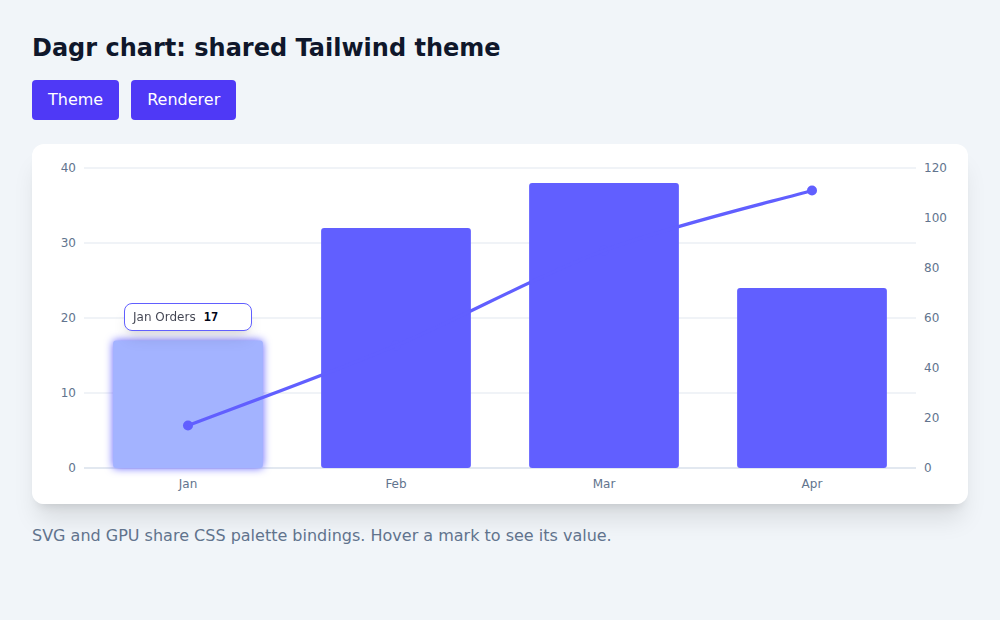
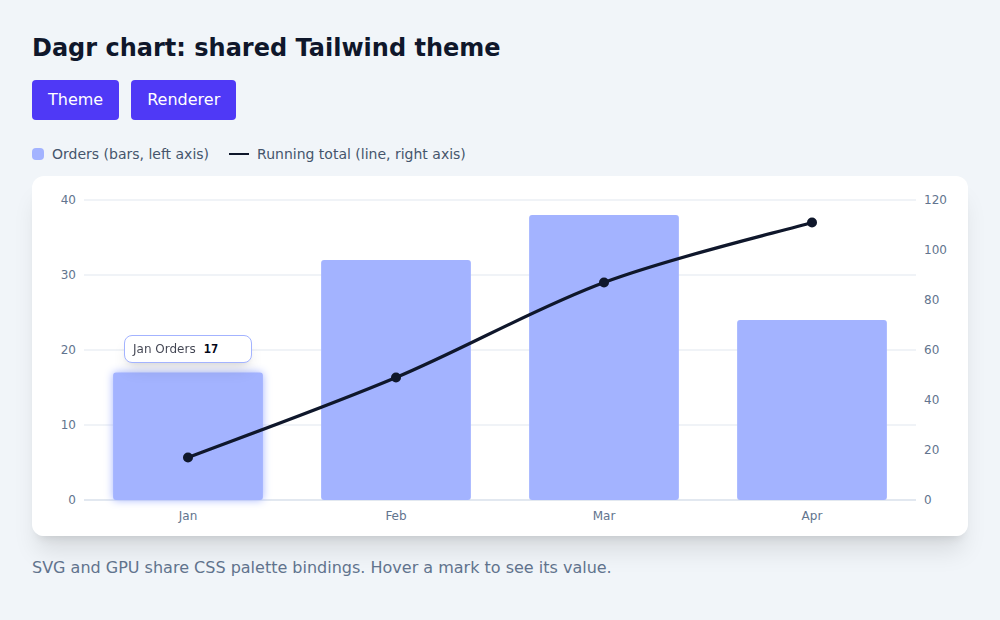
fix(chart): keep lines visible across bars (#222)
Let chart line ribbons opt into drawing above bars while preserving default graph edge layering. Improve combination-chart palettes and legends in existing examples.

Final local five-command gate, exact-head CI, independent DIFF and MERGED TREE reviews passed. Desktop/mobile SVG and software WebGL2 browser flows passed; hardware WebGPU remains unverified.

diff --git a/packages/render/src/scene-edges.ts b/packages/render/src/scene-edges.ts
@@ -31,8 +31,9 @@ import { requireAtLeast, requireFinite } from './validate.js';
  * order within a mesh is SLOT order and that a slot is not durable across a
  * removal, so two ribbons in one draw call cannot be reliably ordered against
  * each other. Groups are drawn in the order they were declared, and that is the
- * only ordering this package offers: dashed routed edges under solid overlay
- * lines is two groups, not two z values.
+ * ordering within a layer: dashed routed edges under solid overlay lines is
+ * two groups. A group can also opt into drawing above nodes, for chart lines
+ * that cross filled bars. Ordinary graph edges stay below nodes.
  *
  * ## Geometry and style are separate calls, and that is the whole ergonomics
  *
@@ -79,6 +80,13 @@ export interface SceneEdge {
 export interface SceneEdgeGroup {
   /** The name `Renderer.setEdges` and `Renderer.setEdgeStyle` address it by. */
   readonly id: string;
+
+  /**
+   * Where this group's ribbons sit relative to nodes. Default `'below-nodes'`.
+   * Use `'above-nodes'` for chart lines that must remain visible over bars.
+   * Groups within each layer keep declaration order.
+   */
+  readonly layer?: 'below-nodes' | 'above-nodes' | undefined;
 
   /**
    * The width and dash pattern this group starts at. See {@link RibbonStyle}.
@@ -247,7 +255,7 @@ function createRibbonMaterial(style: RibbonStyle): {
   // gave: alpha for the antialiasing ramps, and no depth write because a
   // transparent fragment that writes depth occludes whatever is drawn behind it
   // afterwards. Ribbons and nodes share the z = 0 plane, so the ribbons' place
-  // under the nodes comes from the order the meshes are added to the scene.
+  // relative to nodes comes from their render order and scene insertion order.
   material.transparent = true;
   material.depthWrite = false;
   return { material, uniforms };
@@ -283,6 +291,9 @@ class EdgeGroup implements GpuResource {
   #dirtyMax = Number.NEGATIVE_INFINITY;
 
   constructor(group: SceneEdgeGroup) {
+    if (group.layer !== undefined && group.layer !== 'below-nodes' && group.layer !== 'above-nodes') {
+      throw new RangeError(`group "${group.id}".layer has to be below-nodes or above-nodes`);
+    }
     requireRibbonStyle(group.style, `group "${group.id}".style`);
     const { material, uniforms } = createRibbonMaterial(group.style);
     this.id = group.id;
@@ -293,6 +304,10 @@ class EdgeGroup implements GpuResource {
     // keeps it when the geometry is swapped: drawn once without them, the group
     // never uploads them and draws nothing whatever edges it is given later.
     this.mesh = new Mesh(new BufferGeometry(), material);
+    // Nodes keep three's default renderOrder of 0. Both kinds of mesh are
+    // transparent and do not write depth, so an overlay can draw last without
+    // changing the z plane or the order of ordinary graph edges.
+    this.mesh.renderOrder = group.layer === 'above-nodes' ? 1 : 0;
     this.setEdges([]);
     // The bounding sphere three would compute is of the CENTRELINE, and a
     // ribbon is drawn up to its half width outside that, in pixels, which no

diff --git a/apps/demo/src/chart/ChartStage.tsx b/apps/demo/src/chart/ChartStage.tsx
@@ -8,8 +8,9 @@ import type { ChartData } from './data.js';
 
 /**
  * `<DagrChart>` with something to change: the kind of mark, the data, and a
- * second axis. Each control only builds a new `series` prop, and the chart
- * works out what glides, what grows in and what shrinks out.
+ * second axis. Data controls build a new `series` prop; the chart works out
+ * what glides, what grows in and what shrinks out. The rendering control
+ * selects GPU or SVG.
  */
 
 type Mode = 'bars' | 'lines' | 'both' | 'total';
@@ -23,6 +24,9 @@ const MODES: readonly { readonly id: Mode; readonly label: string }[] = [
 const AUTOPLAY_MS = 2400;
 const FIRST_SEED = 7;
 const TOTAL_COLOR = 0xe6edf3;
+// In an overlay, bars provide context and brighter lines remain traceable
+// across both bar colours. Keep the same hue families for each dataset.
+const OVERLAY_BAR_COLORS = [0x705526, 0x26595d] as const;
 
 function runningTotal(values: readonly number[]): number[] {
   let sum = 0;
@@ -33,7 +37,7 @@ function seriesFor(data: ChartData, mode: Mode): ChartSeries[] {
   const [first] = data.series;
   if (mode === 'total' && first !== undefined) {
     return [
-      first,
+      { ...first, color: OVERLAY_BAR_COLORS[0] },
       {
         id: 'total',
         label: `${first.label}, running total`,
@@ -46,7 +50,13 @@ function seriesFor(data: ChartData, mode: Mode): ChartSeries[] {
   }
   if (mode === 'bars') return [...data.series];
   const lines = data.series.map((series) => ({ ...series, id: `${series.id}:line`, mark: 'line' as const }));
-  return mode === 'lines' ? lines : [...data.series, ...lines];
+  if (mode === 'lines') return lines;
+  return [
+    ...data.series.map((series, index) => ({ ...series,
+      label: `${series.label} (bars)`, color: OVERLAY_BAR_COLORS[index] ?? series.color,
+    })),
+    ...lines.map((series) => ({ ...series, label: `${series.label} (line)` })),
+  ];
 }
 
 function hex(color: number): string {
@@ -83,7 +93,7 @@ export function ChartStage(): JSX.Element {
 
   const data = useMemo(() => generateData(seed), [seed]);
   const series = useMemo(() => seriesFor(data, mode), [data, mode]);
-  const legend = series.filter((entry) => !entry.id.endsWith(':line') || mode === 'lines');
+  const legend = series;
 
   // Reduced motion pauses the play button as well as the timer.
   const autoplaying = playing && !reduced;
@@ -149,8 +159,10 @@ export function ChartStage(): JSX.Element {
         <ul className="chart__legend" aria-label="Series">
           {legend.map((entry) => (
             <li key={entry.id} className="chart__legend-item">
-              <span className="chart__swatch" style={{ background: hex(entry.color) }} />
-              {entry.label}
+              <span aria-hidden="true"
+                className={entry.mark === 'line' ? 'chart__swatch chart__swatch--line' : 'chart__swatch'}
+                style={{ color: hex(entry.color) }} />
+              {entry.label}{entry.axis === 'right' ? ' (right axis)' : ''}
             </li>
           ))}
         </ul>

diff --git a/packages/render/test/scene-edges.test.ts b/packages/render/test/scene-edges.test.ts
@@ -19,9 +19,9 @@ import type { Vec2 } from '../src/types.js';
  * The two properties this file exists for, both of which are about the shape of
  * the seam rather than about the picture:
  *
- * - **A group is a mesh**, in declaration order, because that order is the only
- *   layering this package offers (M4.3: slot order within one mesh is not
- *   durable).
+ * - **A group is a mesh**, in declaration order within its layer (M4.3:
+ *   slot order within one mesh is not durable). Groups default below nodes
+ *   and overlays can opt above them.
  * - **Style is not geometry.** `setStyle` writes uniforms and touches no
  *   buffer, which is what lets a draw loop clamp the width against the zoom
  *   every frame without re-tessellating anything.
@@ -103,6 +103,26 @@ describe('SceneEdges', () => {
     expect(scene.meshes).toHaveLength(2);
     expect(scene.meshes[0]).not.toBe(scene.meshes[1]);
     scene.dispose();
+  });
+
+  it('keeps graph edges below nodes and lets an overlay stay above them after geometry updates', () => {
+    const scene = new SceneEdges([
+      { id: 'graph', style: { halfWidthPixels: 1 } },
+      { id: 'under', layer: 'below-nodes', style: { halfWidthPixels: 1 } },
+      { id: 'chart', layer: 'above-nodes', style: { halfWidthPixels: 1 } },
+    ]);
+    expect(scene.meshes.map((mesh) => mesh.renderOrder)).toEqual([0, 0, 1]);
+    scene.setEdges('chart', [edge('line', straight)]);
+    expect(scene.meshes[2]?.renderOrder).toBe(1);
+    expect(scene.meshes.every((mesh) => mesh.material.transparent && !mesh.material.depthWrite)).toBe(true);
+    scene.dispose();
+  });
+
+  it('rejects an invalid layer before allocating its mesh', () => {
+    expect(() => new SceneEdges([
+      // @ts-expect-error JavaScript callers can pass an invalid layer.
+      { id: 'bad', layer: 'middle', style: { halfWidthPixels: 1 } },
+    ])).toThrow(/layer has to be below-nodes or above-nodes/);
   });
 
   it('draws nothing until it is given edges', () => {

diff --git a/packages/render/src/webgpu-renderer.ts b/packages/render/src/webgpu-renderer.ts
@@ -680,10 +680,11 @@ export function buildSceneRenderer(
     // meshes to add and the resource to give back: an `InstancedShapes` replaces
     // its own geometry when its buffer grows, so a geometry captured here would
     // be the stale one by the time anything disposed it.
-    // EDGES FIRST, and the order is the whole of the layering: three draws a
+    // EDGES FIRST for the default layer: three draws a
     // scene's children in the order they were added for objects that share a
     // depth, and every mesh in this package is transparent with `depthWrite`
-    // off, so ribbons added before nodes are drawn under them.
+    // off, so default ribbons draw under nodes. An above-nodes group has a
+    // higher renderOrder and draws after them instead.
     sceneEdges = new SceneEdges(edgeGroups ?? []);
     for (const mesh of sceneEdges.meshes) {
       scene.add(mesh);

diff --git a/packages/chart/src/scene.ts b/packages/chart/src/scene.ts
@@ -137,7 +137,7 @@ export async function createChartScene(options: ChartSceneOptions): Promise<Char
     canvas: options.canvas!,
     clearColor: theme.background,
     sceneStyle: { outlineColor: theme.background, glowAlpha: 0.55, outlinePixels: 1 },
-    edgeGroups: [{ id: LINE_GROUP, style: { halfWidthPixels: LINE_HALF_WIDTH_PIXELS }, curve: 'polyline' }],
+    edgeGroups: [{ id: LINE_GROUP, layer: 'above-nodes', style: { halfWidthPixels: LINE_HALF_WIDTH_PIXELS }, curve: 'polyline' }],
     ...(options.signal === undefined ? {} : { signal: options.signal }),
     ...(options.backend === undefined ? {} : { backend: options.backend }),
     ...(options.onContextLost === undefined ? {} : { onContextLost: options.onContextLost }),

diff --git a/packages/render/src/types.ts b/packages/render/src/types.ts
@@ -150,8 +150,9 @@ export interface Renderer {
    *
    * Groups are declared at construction, through
    * {@link RendererOptions.edgeGroups}, and drawn in the order they were
-   * declared: that order is the only layering this package offers, because
-   * M4.3 established that blend order WITHIN a mesh is slot order and a slot is
+   * declared within each layer. Groups default below nodes and can opt above
+   * them with `layer: 'above-nodes'`. Within a group,
+   * blend order is slot order and a slot is
    * not durable across a removal. Dashed routed edges under solid overlay lines
    * is two groups.
    *

diff --git a/apps/demo/src/chart/chart.css b/apps/demo/src/chart/chart.css
@@ -70,6 +70,7 @@
 
 .chart__legend {
   display: flex;
+  flex-wrap: wrap;
   gap: 1rem;
   margin: 0;
   padding: 0;
@@ -88,6 +89,25 @@
   width: 0.7rem;
   height: 0.7rem;
   border-radius: 2px;
+  flex: none;
+  background: currentColor;
+}
+
+.chart__swatch--line {
+  position: relative;
+  width: 1.1rem;
+  height: 2px;
+}
+
+.chart__swatch--line::after {
+  content: "";
+  position: absolute;
+  width: 5px;
+  height: 5px;
+  left: calc(50% - 2.5px);
+  top: calc(50% - 2.5px);
+  border-radius: 50%;
+  background: currentColor;
 }
 
 .chart__reduced {

diff --git a/packages/chart/test/scene.test.ts b/packages/chart/test/scene.test.ts
@@ -48,6 +48,10 @@ beforeEach(async () => {
   renderer = lastRenderer();
 });
 
+it('requests lines above the bars, preserving the renderer default for graph edges', () => {
+  expect(renderer.options.edgeGroups?.[0]?.layer).toBe('above-nodes');
+});
+
 describe('the renderer it builds', () => {
   it('clears to the theme background and declares one linear edge group', () => {
     expect(renderer.options.clearColor).toBe(DEFAULT_THEME.background);

diff --git a/packages/chart/README.md b/packages/chart/README.md
@@ -51,6 +51,21 @@ The chart fills the element it is given and has no height of its own.
   or against the SVG mark geometry. During a glide, its value and anchor use
   the target layout rather than following the interpolated frame.
 
+## Combining bars and lines
+
+Keep a line distinguishable where it crosses a bar, as well as against the
+background. A different hue alone may have too little lightness contrast.
+Use quieter bars with a stronger line, and give the legend bar and line symbols.
+Chart lines draw above bars in both rendering modes.
+If colours change with a theme, check the overlap in both light and dark modes.
+The `color` on each series, or its `cssColors` binding, controls both backends;
+SVG fill/stroke classes are an additional option.
+
+The demo's `both` view intentionally draws each dataset twice to compare mark
+styles. It uses subdued bars and brighter lines with separate legend entries.
+For different measures, name each series and say which axis it uses, as in the
+running-total example. Overlapping bar and line series need not share a colour.
+
 ## Motion
 
 Marks are matched across renders by series `id` and category index. A mark in
@@ -160,12 +175,17 @@ silently switching rendering modes.
   rendering="svg"
   label="Monthly orders"
   categories={['Jan', 'Feb', 'Mar']}
-  series={[{ id: 'orders', label: 'Orders', values: [17, 32, 38], color: 0x6366f1 }]}
+  series={[
+    { id: 'orders', label: 'Orders', values: [17, 32, 38], color: 0xa3b3ff },
+    { id: 'target', label: 'Target', mark: 'line', values: [25, 25, 25], color: 0x0f172a },
+  ]}
+  className="[--chart-bg:var(--color-white)] dark:[--chart-bg:var(--color-slate-950)]"
+  cssColors={{ background: '--chart-bg' }}
   style={{ height: 360 }}
   classNames={{
-    bar: 'fill-indigo-500 dark:fill-indigo-400 data-[hovered=true]:fill-indigo-300',
-    point: 'fill-violet-500',
-    line: 'stroke-violet-500',
+    bar: 'fill-indigo-300 dark:fill-indigo-500',
+    point: 'fill-slate-900 dark:fill-amber-300',
+    line: 'stroke-slate-900 dark:stroke-amber-300',
   }}
 />
 ```

diff --git a/packages/render/CHANGELOG.md b/packages/render/CHANGELOG.md
@@ -11,6 +11,10 @@ not" is the category this file has a heading for.
 
 ## Unreleased
 
+- Add `SceneEdgeGroup.layer`: chart lines can opt into `'above-nodes'`, while
+  graph edges keep the default `'below-nodes'`. Declaration order is preserved
+  within each layer.
+
 - Add `visualViewportInset(surface, layout, visualViewport)` with a `VisualViewportBox` type to the full and three.js-free core entries: what the visual viewport hides of a surface beyond the layout viewport, and nothing while the page is pinch-zoomed. Explorer's visual-viewport framing now uses it, unchanged, and `DagrCanvas` frames in it too.
 - Add `Camera2D.setInset(inset)`, `Camera2D.frame` and `Camera2D.centerFor(point, zoom)`. With an inset, `fitBounds`, the content limits from `setContentBounds` and their pan clamping work in `visibleFrame(viewport, inset)` instead of the whole viewport. Without one, every result is unchanged.
 - Add `visibleFrame`, `coverInset` and `clipInset` with `FrameInset`, `ScreenRect` and `VisibleFrame` types to the full and three.js-free core entries. They compute the CSS-pixel part of a surface left to frame content in, around overlays, clipping ancestors and the visual viewport. Explorer's obstruction framing now uses them, unchanged.

diff --git a/docs/docs/render.md b/docs/docs/render.md
@@ -1404,10 +1404,11 @@ pattern is in pixels too, so it looks the same and flows at one apparent speed
 at every zoom.
 
 **Groups are the layering.** Blend order within one mesh is slot order, which
-is not durable across a removal, so a scene that wants ribbons under nodes, or
-a highlighted path over dimmed ones, declares its groups through
-`RendererOptions.edgeGroups` and relies on the order it declared them in. One
-group is one mesh and one material.
+is not durable across a removal. Declare groups through
+`RendererOptions.edgeGroups`; declaration order controls their order within a
+layer. Groups default to `layer: 'below-nodes'`, as graph edges normally should.
+Use `layer: 'above-nodes'` for a chart line that must stay visible across filled
+bars. One group is one mesh and one material.
 
 **`setEdgeStyle` is the per-frame call and touches no buffer.** It carries the
 width, an alpha, and how far the dash has flowed. `ribbonWidthAt` is the

diff --git a/packages/chart/CHANGELOG.md b/packages/chart/CHANGELOG.md
@@ -2,6 +2,8 @@
 
 ## Unreleased
 
+- Draw GPU chart lines above bars, matching SVG, so overlaps do not hide the line.
+
 - Use linear interpolation consistently in SVG and GPU charts to avoid invented
   extrema. Measure category labels and tooltip content for collision avoidance
   and containment. Shrink dense bar gaps and widths within category bands.
